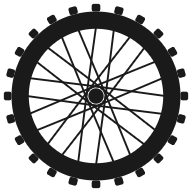
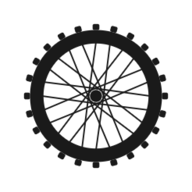
Fix map app install prompt

diff --git a/map/app.js b/map/app.js
@@ -550,14 +550,11 @@ function registerServiceWorker() {
 function setupInstallPrompt() {
   if (!elements.installAppBtn || isStandaloneApp()) return;
 
-  if (isIosDevice()) {
-    elements.installAppBtn.hidden = false;
-  }
+  elements.installAppBtn.hidden = false;
 
   window.addEventListener("beforeinstallprompt", (event) => {
     event.preventDefault();
     deferredInstallPrompt = event;
-    elements.installAppBtn.hidden = false;
   });
 
   window.addEventListener("appinstalled", () => {
@@ -577,9 +574,7 @@ async function handleInstallApp() {
     return;
   }
 
-  if (isIosDevice()) {
-    window.alert("To install this map, tap Share, then Add to Home Screen.");
-  }
+  window.alert(getInstallInstructions());
 }
 
 function isStandaloneApp() {
@@ -591,6 +586,22 @@ function isStandaloneApp() {
 
 function isIosDevice() {
   return /iphone|ipad|ipod/i.test(window.navigator.userAgent);
+}
+
+function isSafariBrowser() {
+  return /^((?!chrome|android).)*safari/i.test(window.navigator.userAgent);
+}
+
+function getInstallInstructions() {
+  if (isIosDevice()) {
+    return "To install this map, tap Share, then Add to Home Screen.";
+  }
+
+  if (isSafariBrowser()) {
+    return "To install this map, choose File, then Add to Dock.";
+  }
+
+  return "To install this map, use your browser menu and choose Install app or Save and share, then Install page as app.";
 }
 
 function toggleFilterOption(filterName, value) {
